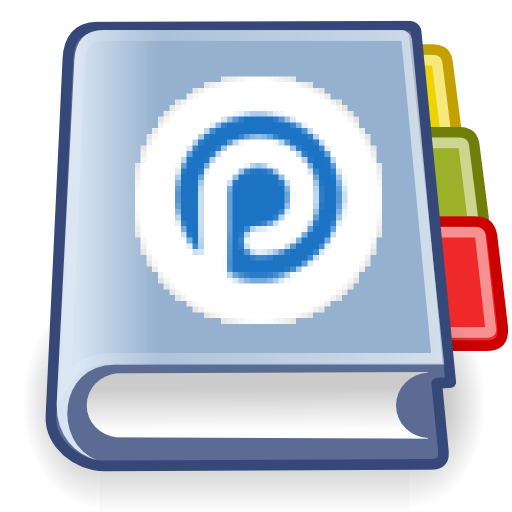
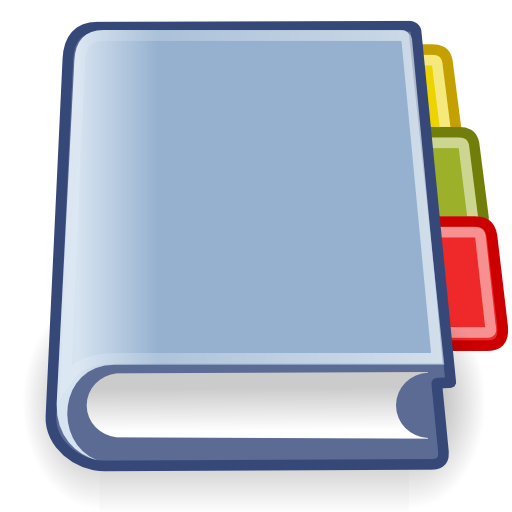
Removed direct references to Plaxo (Images, Description)

Changed region(s): [[0.25, 0.125, 0.75, 0.6562]]

diff --git a/src/de/danielweisser/android/plaxosync/client/PlaxoUtilities.java b/src/de/danielweisser/android/plaxosync/client/PlaxoUtilities.java
@@ -253,7 +253,7 @@ public class PlaxoUtilities {
 		File dir = new File(sdCard.getAbsolutePath() + Constants.SDCARD_FOLDER);
 		dir.mkdirs();
 		File jsonFile = new File(dir, "plaxosync.json");
-		BufferedWriter f = new BufferedWriter(new FileWriter(new File(dir, "plaxosync.json")));
+		BufferedWriter f = new BufferedWriter(new FileWriter(jsonFile));
 		String inputLine;
 		while ((inputLine = in.readLine()) != null) {
 			f.write(inputLine + "\n");

diff --git a/src/de/danielweisser/android/plaxosync/client/Contact.java b/src/de/danielweisser/android/plaxosync/client/Contact.java
@@ -251,7 +251,7 @@ public class Contact {
 	 * @return user The new instance of a contact created from the JSON data.
 	 */
 	@SuppressWarnings("unchecked")
-	public static Contact valueOf(org.async.json.JSONObject entry) {
+	public static Contact valueOf(JSONObject entry) {
 		Contact c = new Contact();
 
 		// Name
